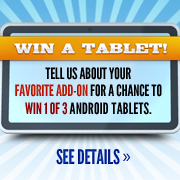
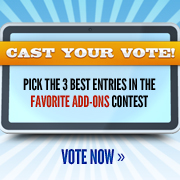
add a new graphic to vote for add-ons contest (bug 770607)

Changed region(s): [[0.0, 0.1944, 1.0, 0.6389], [0.3056, 0.8056, 0.7222, 0.9167]]

diff --git a/apps/discovery/templates/discovery/pane.html b/apps/discovery/templates/discovery/pane.html
@@ -84,13 +84,6 @@ data-upandcoming-url="{{ services_url('discovery.pane.more_addons', 'up-and-comi
     <div id="watch-video">
       <a href="{{ url('home') }}" class="video button">{{ _('Learn More About Add-ons') }}</a>
     </div>
-    {% if waffle.switch('fav-addons-contest') %}
-      <section id="win-tablet">
-        <a href="http://blog.mozilla.com/addons/?p=4569">
-          Win a Tablet! Tell us about your favorite add-on for a chance to win 1
-          of 3 Android tablets.</a>
-      </section>
-    {% endif %}
     {% if up_and_coming %}
       <section class="featured featured-addons" id="up-and-coming">
         <h2><a class="all" href="{{ url('browse.extensions')|urlparams(sort='hotness') }}">{{ _('See all') }}</a>

diff --git a/media/css/impala/promos.less b/media/css/impala/promos.less
@@ -542,17 +542,6 @@
     }
 }
 
-section#win-tablet {
-    padding: 0;
-    a {
-        .border-box;
-        .border-radius(6px);
-        background: url(../../img/zamboni/promos/fav-large.jpg) 50% 50% no-repeat;
-        height: 180px;
-        width: 100%;
-    }
-}
-
 #side-nav + #win-tablet {
     padding: 0;
     a {
